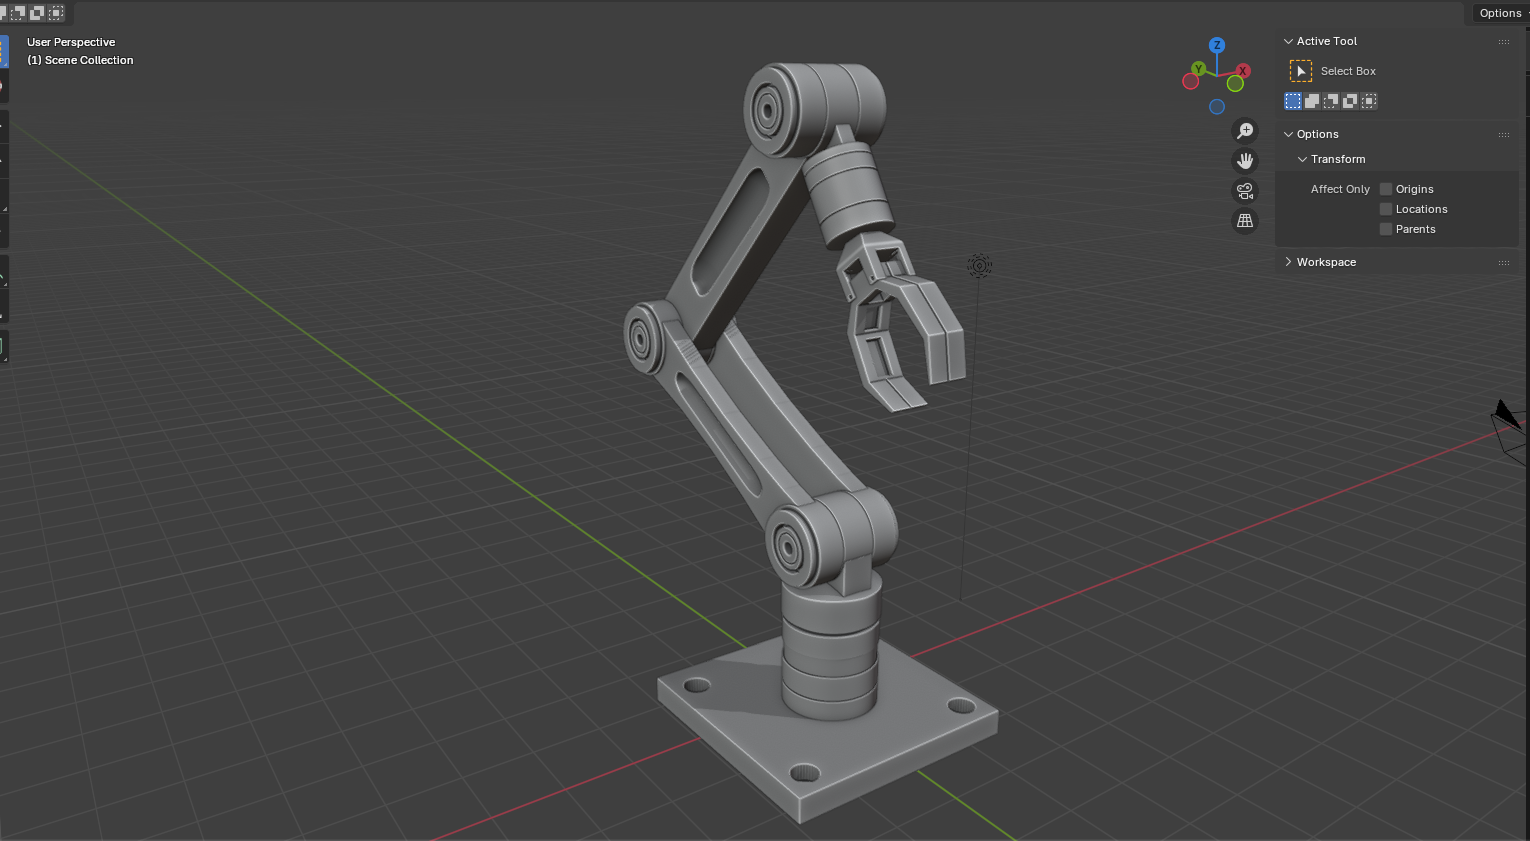
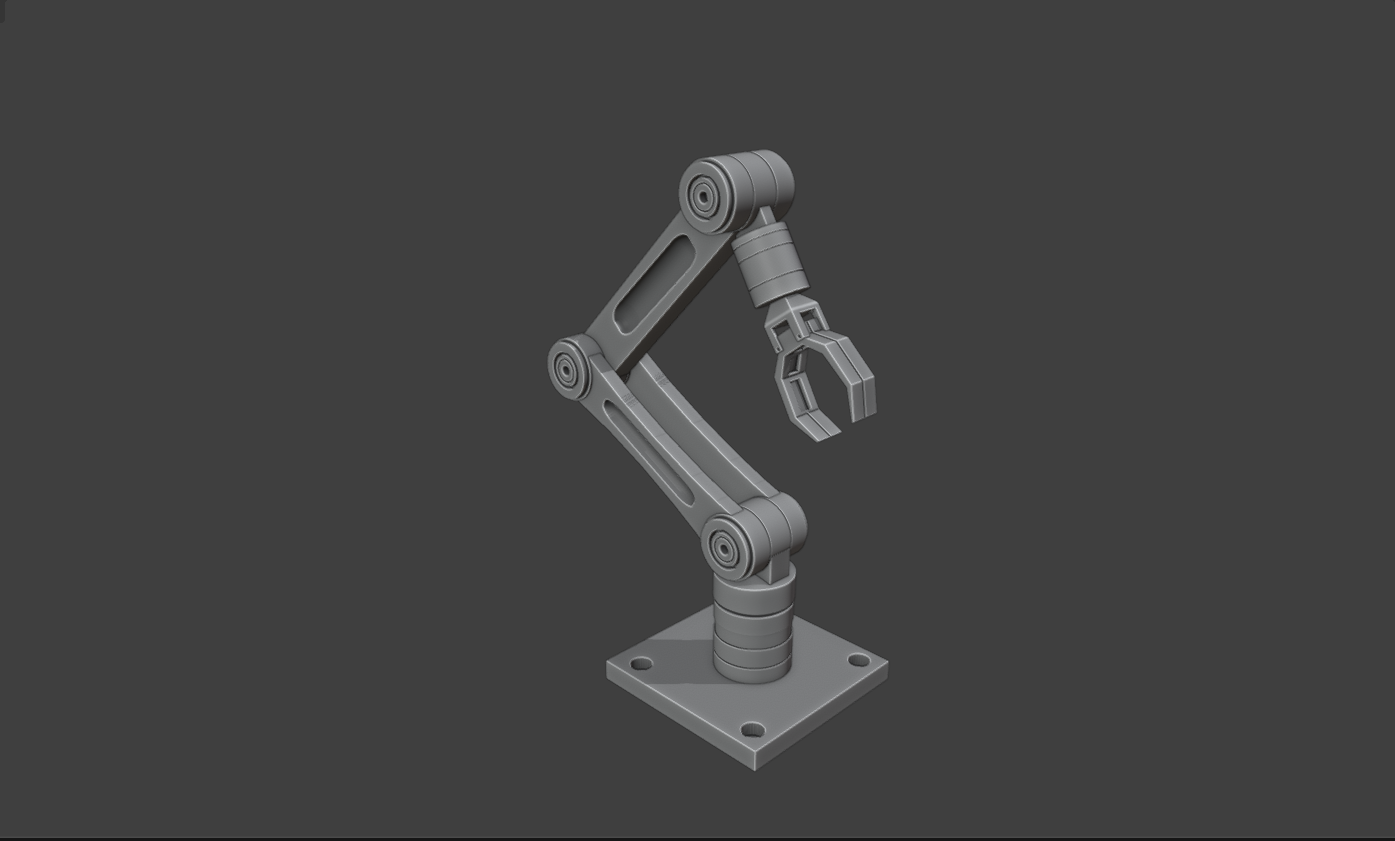
small modifications

diff --git a/web_development/non_interactive/personal_portfolio/1/index.html b/web_development/non_interactive/personal_portfolio/1/index.html
@@ -16,7 +16,7 @@
                 <li><a href="#about">About</a></li>
                 <li><a href="#services">Services</a></li>
                 <li><a href="#work">Portfolio</a></li>
-                <li><a href="#">Blog</a></li>
+                <!-- <li><a href="#">Blog</a></li> -->
                 <li><a href="#contact">Contact</a></li>
             </ul>
             <a href="#" class="btn nav-btn">Resume</a>
@@ -117,6 +117,17 @@
                 </div>
 
                 <div class="service-card">
+                    <div class="service-icon">🏗</div>
+                    <h3>Technical Architecture Visualization</h3>
+                    <p>Creating photorealistic renders for healthcare, industrial complexes, and smart-city developments worldwide.</p>
+                </div>
+                
+                <div class="service-card">
+                    <div class="service-icon">📦</div>
+                    <h3>E-commerce Product Visualization</h3>
+                    <p>Transforming product concepts into hyper-realistic 3D assets for global brands</p>
+                </div>
+                <!-- <div class="service-card">
                     <div class="service-icon">🏢</div>
                     <h3>Architectural Tours</h3>
                     <p>Visualizing spaces like schools, hotels, and construction sites before they are even built.</p>
@@ -126,7 +137,7 @@
                     <div class="service-icon">🎨</div>
                     <h3>Product 3D Ads</h3>
                     <p>Showcasing artisan products like welding gates or carpentry in a 360-degree interactive viewer.</p>
-                </div>
+                </div> -->
 
                 <div class="service-card">
                     <div class="service-icon">✨</div>
@@ -162,7 +173,7 @@
     
                 <div class="gallery-item large">
                     <div class="item-image">
-                        <img src="image2.jpg" alt="Web Development">
+                        <img src="image3.png" alt="Web Development">
                         <div class="item-overlay">
                             <div class="overlay-content">
                                 <span class="category">Creative Dev</span>
@@ -175,7 +186,7 @@
     
                 <div class="gallery-item">
                     <div class="item-image">
-                        <img src="image3.jpg" alt="Product Design">
+                        <img src="image2.png" alt="Product Design">
                         <div class="item-overlay">
                             <div class="overlay-content">
                                 <span class="category">Visual Identity</span>
@@ -186,7 +197,7 @@
                     </div>
                 </div>
     
-                </div>
+            </div>
     
             <div class="gallery-footer">
                 <p>Ready to bring your vision to life?</p>
@@ -268,7 +279,7 @@
             </div>
         </div>
         <div class="footer-bottom">
-            <p>&copy; 2025 MAI Jordan. All Rights Reserved.</p>
+            <p>&copy; 2026 MAI Jordan. All Rights Reserved.</p>
         </div>
     </footer>
 </body>

diff --git a/web_development/non_interactive/personal_portfolio/1/style.css b/web_development/non_interactive/personal_portfolio/1/style.css
@@ -130,6 +130,7 @@ nav ul li a:hover:after {
     background: transparent;
     border-color:#44ada4;
     color:#44ada4;
+    cursor: pointer;
 }
 
 /* Main Layout Container */
@@ -478,6 +479,7 @@ p, h1 {
 .contact-form input:focus, 
 .contact-form textarea:focus {
     border-color: #44ada4;
+    
 }
 
 
@@ -519,7 +521,9 @@ p, h1 {
 }
 
 /* 2. The Bento Grid Logic */
-.gallery-grid {
+.gallery-grid {    
+    width: 80%;
+    margin: 0 auto;
     display: grid;
     /* This creates a 3-column layout on desktop */
     grid-template-columns: repeat(3, 1fr);
